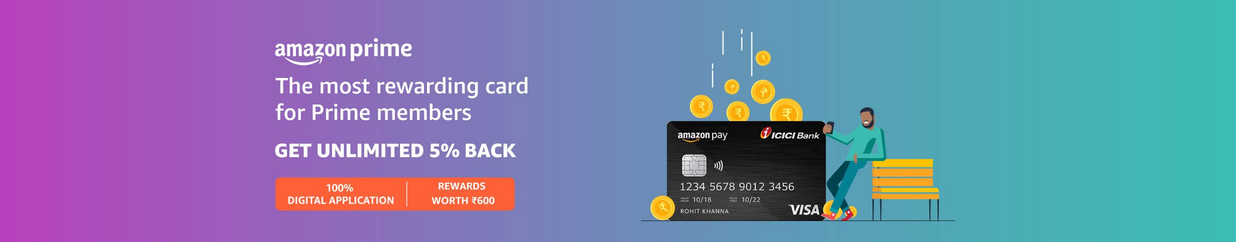
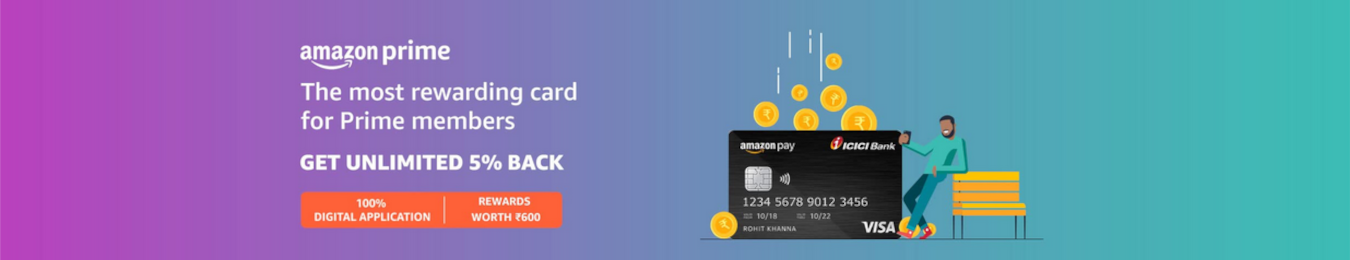
carousel added

diff --git a/Public/bootstrap/carousel.html b/Public/bootstrap/carousel.html
@@ -1,0 +1,39 @@
+<html lang="en">
+<head>
+    <meta charset="UTF-8">
+    <meta http-equiv="X-UA-Compatible" content="IE=edge">
+    <meta name="viewport" content="width=device-width, initial-scale=1.0">
+    <link rel="stylesheet" href="../../node_modules/bootstrap/dist/css/bootstrap.css">
+    <title>Carousel</title>
+</head>
+<body>
+    <div class="container-fluid p-0">
+        <div class="carousel slide carousel-dark" data-bs-ride="carousel" id="topbanner">
+            <div class="carousel-inner">
+                <div class="carousel-item active" data-bs-interval="2000">
+                    <img src="../images/banners/banner1.png" alt="banner1" class="d-block w-100">
+                </div>
+                <div class="carousel-item" data-bs-interval="2000">
+                    <img src="../images/banners/banner2.png" alt="banner2" class="d-block w-100">
+                </div>
+                <div class="carousel-item" data-bs-interval="2000">
+                    <img src="../images/banners/banner3.png" alt="banner3" class="d-block w-100">
+                </div>
+            </div>
+            <button class="carousel-control-prev" data-bs-slide="prev" data-bs-target="#topbanner">
+                <span class="carousel-control-prev-icon"></span>
+            </button>
+            <button class="carousel-control-next" data-bs-slide="next" data-bs-target="#topbanner">
+                <span class=" carousel-control-next-icon"></span>
+            </button>
+            <div class="carousel-indicators">
+                <button class="active" data-bs-slide-to="0" data-bs-target="#topbanner"></button>
+                <button data-bs-slide-to="1" data-bs-target="#topbanner"></button>
+                <button data-bs-slide-to="2" data-bs-target="#topbanner"></button>
+            </div>
+        </div>
+    </div>
+    <script src="../../node_modules/jquery/dist/jquery.js"></script>
+    <script src="../../node_modules/bootstrap/dist/js/bootstrap.bundle.js"></script>
+</body>
+</html>
